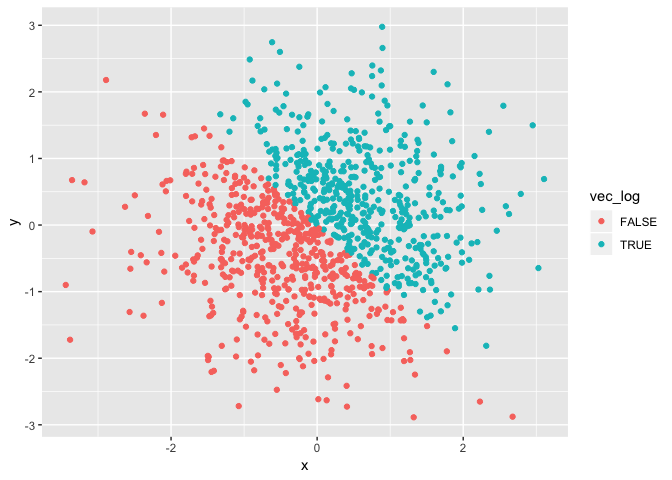
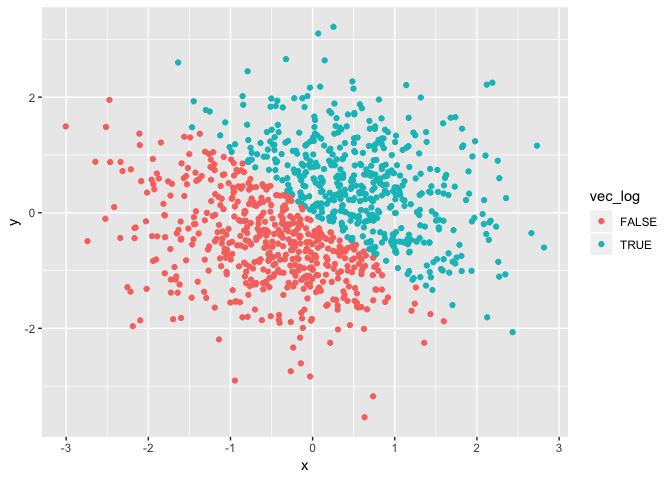
change the code into multi line writing

diff --git a/p8105_hw1_hx2263.md b/p8105_hw1_hx2263.md
@@ -12,7 +12,9 @@ df_1 = tibble(
   random_samp = runif(n = 10, min = 0, max = 5),
   vec_logical = random_samp > 2,
   vec_char = paste(c("X"), 1:10, sep = ""),
-  vec_factor = factor(c("male", "male", "female", "female", "male", "female", "female", "male", "female", "male"))
+  vec_factor = factor(c("male", "male", "female", 
+                        "female", "male", "female", 
+                        "female", "male", "female", "male"))
 )
 df_1 
 ```
@@ -20,28 +22,28 @@ df_1
     ## # A tibble: 10 x 4
     ##    random_samp vec_logical vec_char vec_factor
     ##          <dbl> <lgl>       <chr>    <fct>     
-    ##  1       4.70  TRUE        X1       male      
-    ##  2       4.01  TRUE        X2       male      
-    ##  3       0.667 FALSE       X3       female    
-    ##  4       3.68  TRUE        X4       female    
-    ##  5       0.529 FALSE       X5       male      
-    ##  6       4.03  TRUE        X6       female    
-    ##  7       0.241 FALSE       X7       female    
-    ##  8       0.751 FALSE       X8       male      
-    ##  9       4.47  TRUE        X9       female    
-    ## 10       2.03  TRUE        X10      male
+    ##  1       1.38  FALSE       X1       male      
+    ##  2       3.66  TRUE        X2       male      
+    ##  3       2.07  TRUE        X3       female    
+    ##  4       0.499 FALSE       X4       female    
+    ##  5       5.00  TRUE        X5       male      
+    ##  6       1.86  FALSE       X6       female    
+    ##  7       2.67  TRUE        X7       female    
+    ##  8       0.455 FALSE       X8       male      
+    ##  9       3.13  TRUE        X9       female    
+    ## 10       1.90  FALSE       X10      male
 
 ``` r
 mean(df_1$random_samp)
 ```
 
-    ## [1] 2.510857
+    ## [1] 2.263011
 
 ``` r
 mean(df_1$vec_logical)
 ```
 
-    ## [1] 0.6
+    ## [1] 0.5
 
 ``` r
 mean(df_1$vec_char)
@@ -71,7 +73,9 @@ df_2 = tibble(
   random_samp = runif(n = 10, min = 0, max = 5),
   vec_logical = as.numeric(random_samp > 2),
   vec_char = as.numeric(paste(c("X"), 1:10, sep = "")),
-  vec_factor = as.numeric(factor(c("male", "male", "female", "female", "male", "female", "female", "male", "female", "male")))
+  vec_factor = as.numeric(factor(c("male", "male", "female", 
+                                   "female", "male", "female", 
+                                   "female", "male", "female", "male")))
 )
 df_2 
 ```
@@ -84,7 +88,9 @@ When applying as.numeric, factors will return the numeric codes that correspond 
 ## create data frame and do dual conversion
 df_3 = tibble(
   vec_char = as.numeric(as.factor(paste(c("X"), 1:10, sep = ""))),
-  vec_factor = as.numeric(as.character(factor(c("male", "male", "female", "female", "male", "female", "female", "male", "female", "male"))))
+  vec_factor = as.numeric(as.character(factor(c("male", "male", "female",
+                                                "female", "male", "female",
+                                                "female", "male", "female", "male"))))
 )
 ```
 
@@ -126,7 +132,7 @@ df_4 = tibble(
 )
 ```
 
-Description: The newly created dataset has 5 columns and 1000 rows. The mean of random sample x is 0.0471616 and the median of x is 0.0440169. The proportion of cases for which the logical vector is TRUE is 0.489
+Description: The newly created dataset has 5 columns and 1000 rows. The mean of random sample x is 0.0084154 and the median of x is 0.0191192. The proportion of cases for which the logical vector is TRUE is 0.489
 
 ``` r
 #Make scatterplot of y vs x, color points using the logical variable
